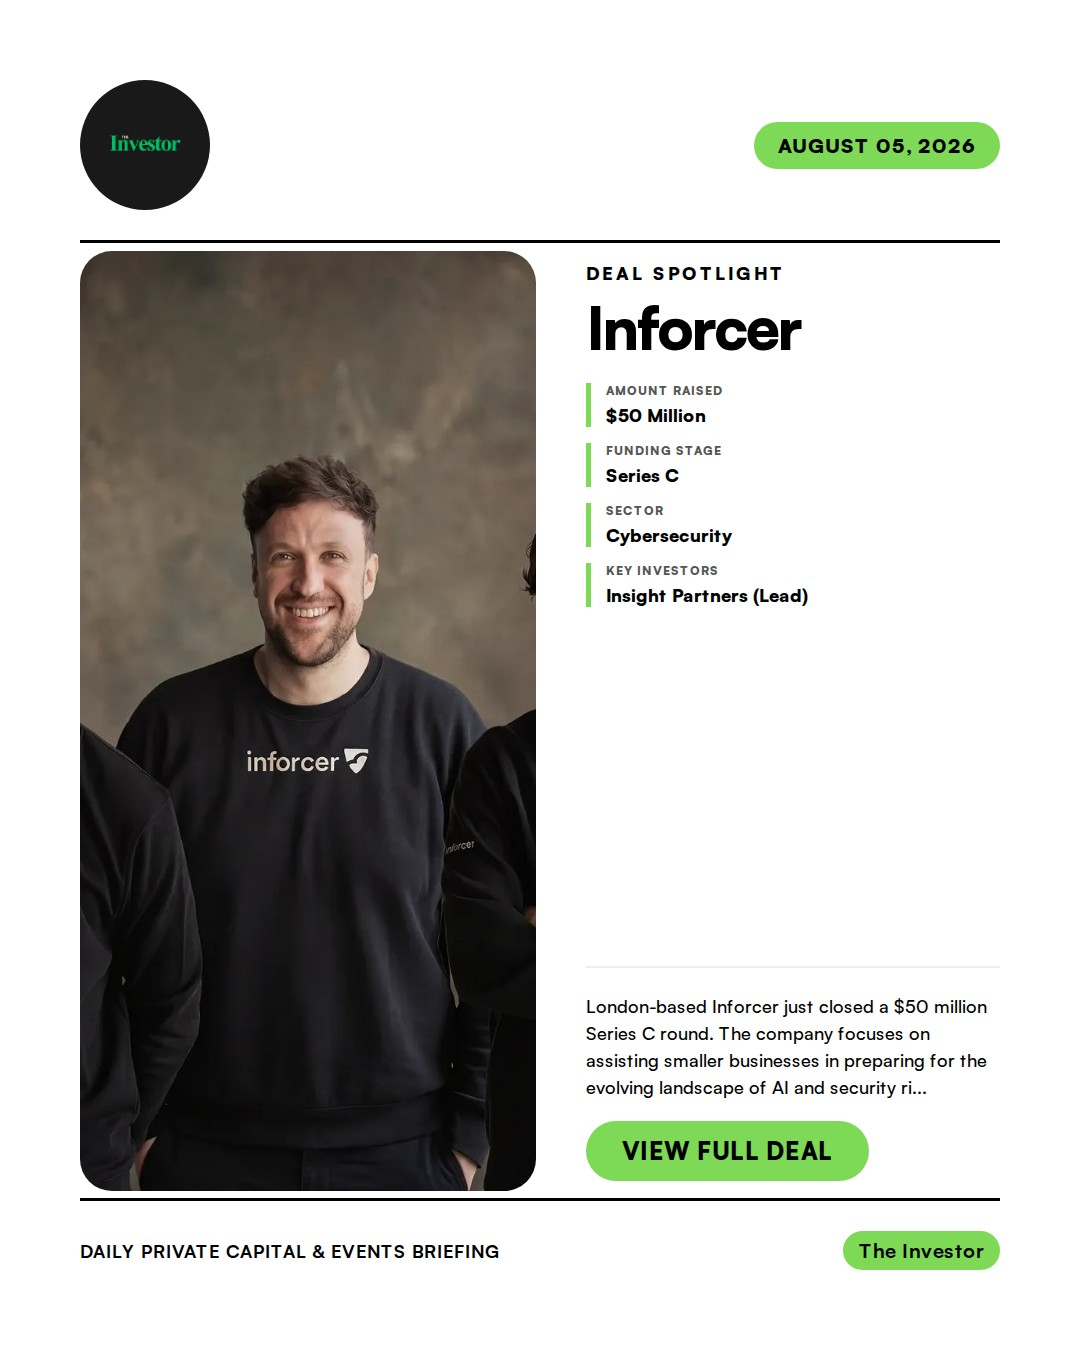
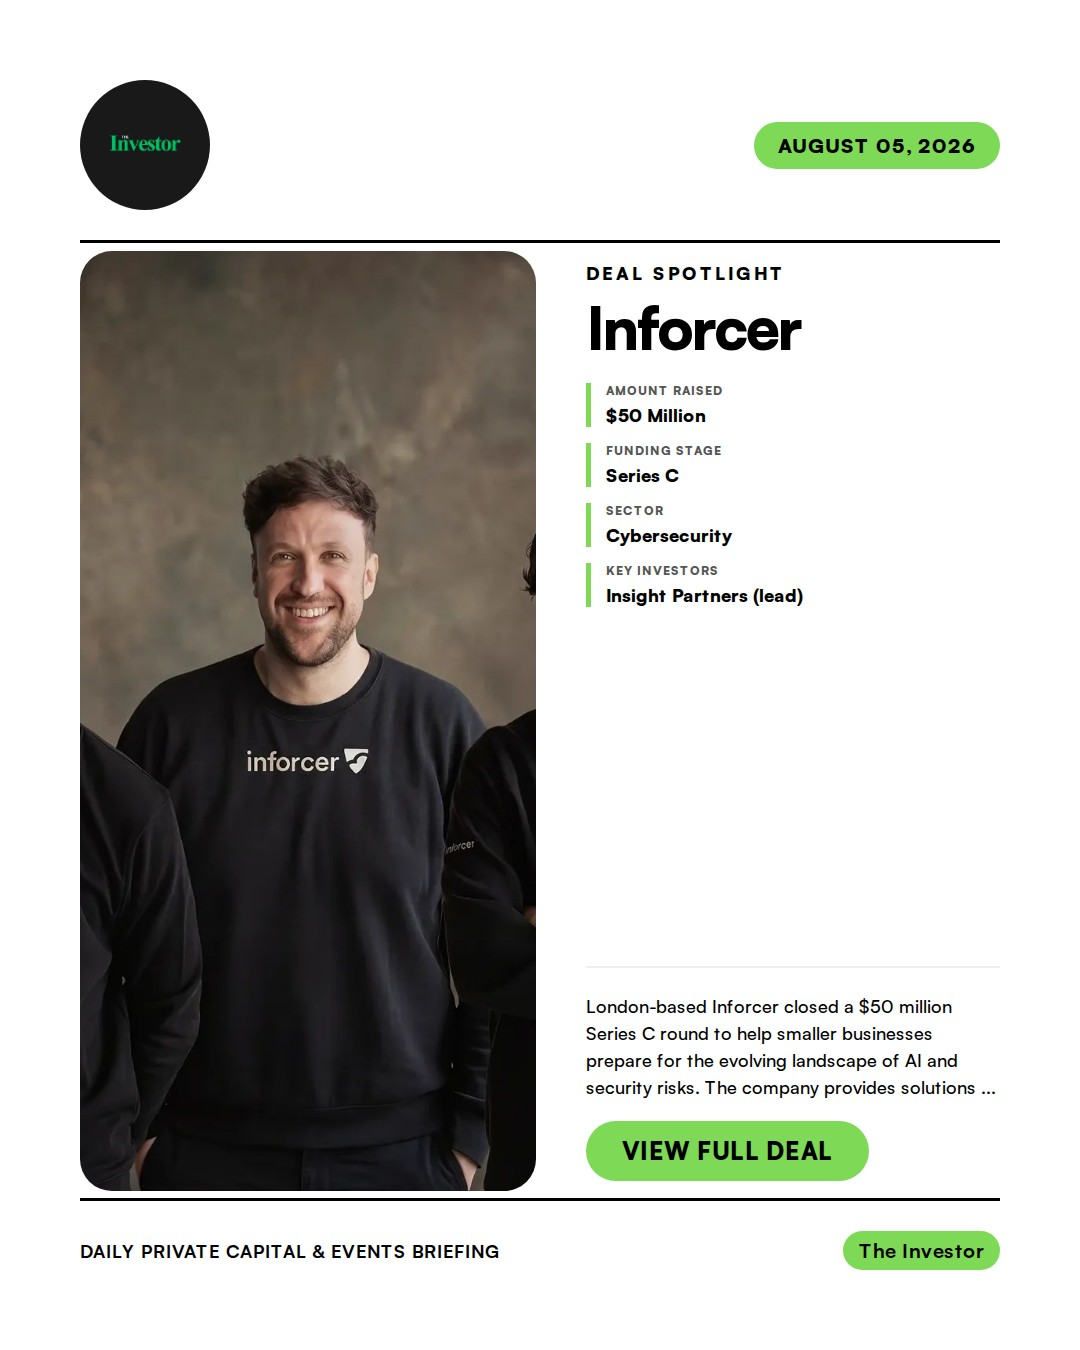
docs: Add daily news report 2026-08-05

Changed region(s): [[0.55, 0.7156, 0.9167, 0.8089], [0.7028, 0.4356, 0.7639, 0.4667]]

diff --git a/NewsReport/2026-08-05-news-report.md b/NewsReport/2026-08-05-news-report.md
@@ -5,110 +5,110 @@
 
 ---
 
-## 1. Oxide Computer: $445 Million Undisclosed Round (SEC Form D)
+## 1. Oxide Computer: $445M (SEC Form D)
 
-- **Summary**: Oxide Computer, a company delivering integrated, rack-scale computing platforms for on-premises private cloud infrastructure, has raised $445 million according to an SEC Form D filing. The company aims to provide a modern cloud experience on-premises with purpose-built hardware and open-source software.
+- **Summary**: Oxide Computer has raised a substantial $445 million, as revealed in an SEC Form D filing. The Emeryville, California-based company, founded in 2019, sells rack-scale integrated hardware and open-source software as an on-premises cloud alternative. This significant funding, more than double its previous Series C, indicates strong investor confidence in its approach to providing private, bare-metal AI infrastructure.
 - **Key Points**:
-  1. Investors: Undisclosed
-  2. Sector keywords: cloud computing, private cloud, infrastructure, hardware
+  1. Investors: Undisclosed (previous investors include Thomas Tull's US Innovative Technology Fund, Eclipse, Riot Ventures, Jane Street)
+  2. Sector keywords: Hardware, Cloud Infrastructure, On-Premise Cloud, AI Infrastructure
 - **Source**: [Hacker News](https://www.sec.gov/Archives/edgar/data/1795071/000179507126000002/xslFormDX01/primary_doc.xml)
-- **Keywords**: `cloud computing, private cloud, infrastructure, hardware`
+- **Keywords**: `Hardware, Cloud Infrastructure, On-Premise Cloud, AI Infrastructure`
 - **Score**: ⭐⭐⭐⭐⭐ (5/5)
 
 ---
 
-## 2. Airtable: $1.28 Billion M&A
+## 2. Inforcer: $50 million Series C round led by Insight Partners
 
-- **Summary**: Airtable is being acquired by Bending Spoons for $1.28 billion. This major acquisition marks a significant event for Airtable, which was previously valued at $11 billion in 2021, indicating a substantial valuation adjustment.
+- **Summary**: London-based Inforcer closed a $50 million Series C round to help smaller businesses prepare for the evolving landscape of AI and security risks. The company provides solutions designed to bolster the cybersecurity posture of Small and Medium-sized Businesses (SMBs) in an increasingly complex digital environment. This funding will support product development and market expansion.
 - **Key Points**:
-  1. Investors: Bending Spoons (Acquirer)
-  2. Sector keywords: M&A, SaaS, no-code, database
-- **Source**: [Hacker News](https://techcrunch.com/2026/08/04/bending-spoons-to-buy-airtable-for-1-28b/)
-- **Keywords**: `M&A, SaaS, no-code, database`
-- **Score**: ⭐⭐⭐⭐⭐ (5/5)
-
----
-
-## 3. Inforcer: $50 Million Series C
-
-- **Summary**: London-based Inforcer just closed a $50 million Series C round. The company focuses on assisting smaller businesses in preparing for the evolving landscape of AI and security risks, providing solutions to enhance their resilience in a new world of digital threats.
-- **Key Points**:
-  1. Investors: Insight Partners (Lead)
-  2. Sector keywords: cybersecurity, AI, SMBs, SaaS
+  1. Investors: Insight Partners (lead)
+  2. Sector keywords: Cybersecurity, SMB, AI Security, SaaS
 - **Source**: [TechCrunch](https://techcrunch.com/2026/07/30/inforcer-raises-50m-to-help-prepare-smbs-for-a-new-world-of-ai-and-security-risks/)
-- **Keywords**: `cybersecurity, AI, SMBs, SaaS`
+- **Keywords**: `Cybersecurity, SMB, AI Security, SaaS`
 - **Score**: ⭐⭐⭐⭐ (4/5)
 
 ---
 
-## 4. Moment: $22 Million Series A
+## 3. Moment: $22 million Series A funding round
 
-- **Summary**: Moment, a pan-African fintech company, raised $22 million in Series A funding. The company provides omni-channel payment infrastructure and a comprehensive suite of collection and revenue retention solutions for enterprise merchants across African markets.
+- **Summary**: Moment, a pan-African fintech startup, has closed a $22 million Series A funding round. The company provides payments infrastructure for enterprise merchants across Africa, aggregating local payment methods behind a single API. Headquartered in Cape Town, Moment aims to simplify cross-border payments and support recurring revenue collection in diverse African markets.
 - **Key Points**:
-  1. Investors: AlphaCode Venture Partners (lead), General Catalyst, MultiChoice, Canal+, Entree Capital, The Raba Partnership, Helios Investment Partners.
-  2. Sector keywords: fintech, payments, Africa, SaaS
+  1. Investors: AlphaCode Venture Partners (lead), General Catalyst, MultiChoice, Canal+, Entree Capital, The Raba Partnership, Helios Investment Partners
+  2. Sector keywords: Fintech, Payments Infrastructure, Africa, Emerging Markets
 - **Source**: [TechCabal](https://techcabal.com/2026/08/05/techcabal-daily-palmpay-eyes-hong-kong/)
-- **Keywords**: `fintech, payments, Africa, SaaS`
+- **Keywords**: `Fintech, Payments Infrastructure, Africa, Emerging Markets`
 - **Score**: ⭐⭐⭐⭐ (4/5)
 
 ---
 
-## 5. Convex: $57 Million Series B
+## 4. Convex: $57 million Series B led by Insight Partners
 
-- **Summary**: Convex has closed a $57 million Series B funding round to scale its backend platform, which is optimized for AI-driven software development. The company provides a reactive backend platform that handles data management, ACID transactions, and type safety, specifically designed for teams utilizing AI coding agents.
+- **Summary**: Convex, a San Francisco-based reactive backend platform, has raised $57 million in Series B funding. The company provides a platform for developers and AI agents to build, test, and validate software, offering ACID transactions, end-to-end type safety, and real-time subscriptions. This funding will accelerate product development and hiring, enabling Convex to scale its reliable backend for the AI era.
 - **Key Points**:
-  1. Investors: Insight Partners (lead), Etna Labs, Spark Capital, Andreessen Horowitz (a16z), Justin Kan.
-  2. Sector keywords: backend development, AI development, developer tools, cloud infrastructure
+  1. Investors: Insight Partners (lead), Etna Labs, Spark Capital, a16z, Justin Kan
+  2. Sector keywords: Backend as a Service, Developer Tools, AI Infrastructure, Database
 - **Source**: [Hacker News](https://news.convex.dev/convex-raises-57m/)
-- **Keywords**: `backend development, AI development, developer tools, cloud infrastructure`
+- **Keywords**: `Backend as a Service, Developer Tools, AI Infrastructure, Database`
 - **Score**: ⭐⭐⭐⭐ (4/5)
 
 ---
 
-## 6. June: $20 Million Preseed
+## 5. June AI: $20 million pre-seed round
 
-- **Summary**: June emerged from stealth with $20 million in pre-seed funding to make AI adoption simpler for enterprises. The company is developing AI tools designed to address the challenges of integrating new AI capabilities into complex enterprise software systems, aiming to revolutionize enterprise software implementation for the AI era.
+- **Summary**: June AI has emerged from stealth with $20 million in pre-seed funding to tackle the enterprise AI deployment problem. The company develops AI tools to automate complex software implementation work and integrate new AI capabilities into large organizations' existing systems. Founded by former Salesforce executives, June AI aims to reduce the need for expensive professional services in AI adoption.
 - **Key Points**:
-  1. Investors: TIME Ventures (led by Marc Benioff), Michael Dell, Diane Greene, Aaron Levie, George Kurtz, SV Angel, Conviction Embed, Abstract, A*, Vesey Ventures.
-  2. Sector keywords: AI, AI deployment, enterprise AI, SaaS
+  1. Investors: TIME Ventures (lead), Michael Dell, Diane Greene, Aaron Levie, George Kurtz, SV Angel, Conviction Embed, Abstract, A*, Vesey Ventures
+  2. Sector keywords: AI deployment, Enterprise AI, SaaS, AI Agents
 - **Source**: [TechCrunch](https://techcrunch.com/2026/08/03/a-marc-benioff-backed-startup-thinks-ai-can-solve-the-ai-deployment-problem/)
-- **Keywords**: `AI, AI deployment, enterprise AI, SaaS`
+- **Keywords**: `AI deployment, Enterprise AI, SaaS, AI Agents`
 - **Score**: ⭐⭐⭐ (3/5)
 
 ---
 
-## 7. Smallest.ai: $13 Million Series A
+## 6. Smallest.ai: $13M Series A funding
 
-- **Summary**: Smallest.ai has raised $13 million in Series A funding to develop ultra-fast, genuinely human-sounding voice AI. The company focuses on creating real-time speech-to-speech systems for enterprise applications such as financial services, healthcare, and contact centers, aiming to make voice conversations with machines feel natural and instant.
+- **Summary**: Smallest.ai has raised $13 million in Series A funding to develop ultra-fast voice AI that sounds genuinely human. The startup focuses on creating miniaturized AI models designed for real-time enterprise support and to pass the Turing test during AI phone calls. The company's technology aims to revolutionize human-AI vocal interaction by prioritizing speed and realistic prosody.
 - **Key Points**:
-  1. Investors: Seligman Ventures (lead), Sierra Ventures, 3one4 Capital, Better Capital, Upsparks Capital, Schema Ventures, Tiny VC, DeVC, Mission Street Capital, and angel investors.
-  2. Sector keywords: voice AI, AI, natural language processing, enterprise AI
+  1. Investors: Seligman Ventures (lead), Sierra Ventures, 3one4 Capital, LetsVenture
+  2. Sector keywords: Voice AI, Generative AI, Edge AI, Conversational AI
 - **Source**: [TechCrunch](https://techcrunch.com/2026/07/31/smallest-ai-raises-13m-to-build-ultra-fast-voice-ai-that-sounds-genuinely-human/)
-- **Keywords**: `voice AI, AI, natural language processing, enterprise AI`
+- **Keywords**: `Voice AI, Generative AI, Edge AI, Conversational AI`
 - **Score**: ⭐⭐⭐ (3/5)
 
 ---
 
-## 8. Ellis AI: $10 Million Seed
+## 7. Ellis AI: $10M seed funding
 
-- **Summary**: Ellis AI has emerged from stealth with $10 million in seed funding to build an AI-native operations platform for private credit managers. The platform aims to automate operational workflows, including reconciliation, reporting, compliance, and anomaly detection, in the fragmented private credit market.
+- **Summary**: Ellis AI, founded by repeat entrepreneur Ryan Williams, has launched with $10 million in seed funding. The startup offers an AI-native operations platform for private credit managers, aiming to automate reconciliation, reporting, and compliance. Its platform unifies fragmented data across various financial systems to improve efficiency and accuracy in the fast-growing private credit market.
 - **Key Points**:
-  1. Investors: First Round Capital (lead), 645 Ventures, Harlem Capital, Khosla Ventures, Slow Ventures, Wilshire Lane, Westbound, Collide Capital, Gallery Ventures, Mellody Hobson, Josh Kushner, Immad Akhund.
-  2. Sector keywords: AI, fintech, private credit, SaaS
+  1. Investors: First Round Capital (lead), 645 Ventures, Harlem Capital, Khosla Ventures, Thrive Capital, Slow Ventures, Wilshire Lane, Westbound, Collide Capital, Gallery Ventures, Mellody Hobson, Josh Kushner, Immad Akhund
+  2. Sector keywords: Fintech, AI, Private Credit, Enterprise AI, Automation
 - **Source**: [TechCrunch](https://techcrunch.com/2026/07/31/repeat-founder-ryan-williams-raises-10m-seed-for-an-ai-startup-for-private-credit-managers/)
-- **Keywords**: `AI, fintech, private credit, SaaS`
+- **Keywords**: `Fintech, AI, Private Credit, Enterprise AI, Automation`
 - **Score**: ⭐⭐⭐ (3/5)
 
 ---
 
-## 9. RWX: $12 Million Series A
+## 8. RWX: $12M in Series A financing
 
-- **Summary**: RWX has raised $12 million in Series A funding to expand its cloud infrastructure platform for AI-driven software engineering. The company focuses on accelerating the validation of AI-generated code, aiming to eliminate bottlenecks in continuous integration pipelines and test systems.
+- **Summary**: RWX, a Columbus, Ohio-based provider of a dev cloud platform, has raised $12 million in Series A funding. The company aims to address bottlenecks in AI-driven software engineering by focusing on code validation rather than just writing. Their platform offers build automation, content-based caching, and isolated cloud sandboxes to accelerate AI-assisted code delivery.
 - **Key Points**:
-  1. Investors: Hyde Park Venture Partners (lead), Quiet Capital, The O.H.I.O. Fund, R1 Capital, DV, Bryan Johnson, Kohsuke Kawaguchi.
-  2. Sector keywords: developer tools, AI development, cloud infrastructure, software validation
+  1. Investors: Hyde Park Venture Partners (lead), Quiet Capital, The O.H.I.O. Fund, R1 Capital, DV, Bryan Johnson, Kohsuke Kawaguchi
+  2. Sector keywords: DevOps, AI Software Engineering, Developer Tools, Cloud Platform
 - **Source**: [Hacker News](https://www.rwx.com/blog/series-a)
-- **Keywords**: `developer tools, AI development, cloud infrastructure, software validation`
+- **Keywords**: `DevOps, AI Software Engineering, Developer Tools, Cloud Platform`
+- **Score**: ⭐⭐⭐ (3/5)
+
+---
+
+## 9. EdotEnv: YC S26
+
+- **Summary**: EdotEnv, a Y Combinator Summer 2026 batch company, has launched with its platform focused on quantitative trading reinforcement learning environments. These environments are designed to teach large language models research in the financial sector. As a YC company, it receives seed investment and aims to bridge the gap between AI and complex financial research.
+- **Key Points**:
+  1. Investors: Y Combinator
+  2. Sector keywords: Fintech AI, Quantitative Trading, Reinforcement Learning, LLMs, EdTech
+- **Source**: [Hacker News](https://edotenv.com/)
+- **Keywords**: `Fintech AI, Quantitative Trading, Reinforcement Learning, LLMs, EdTech`
 - **Score**: ⭐⭐⭐ (3/5)
 
 ---
